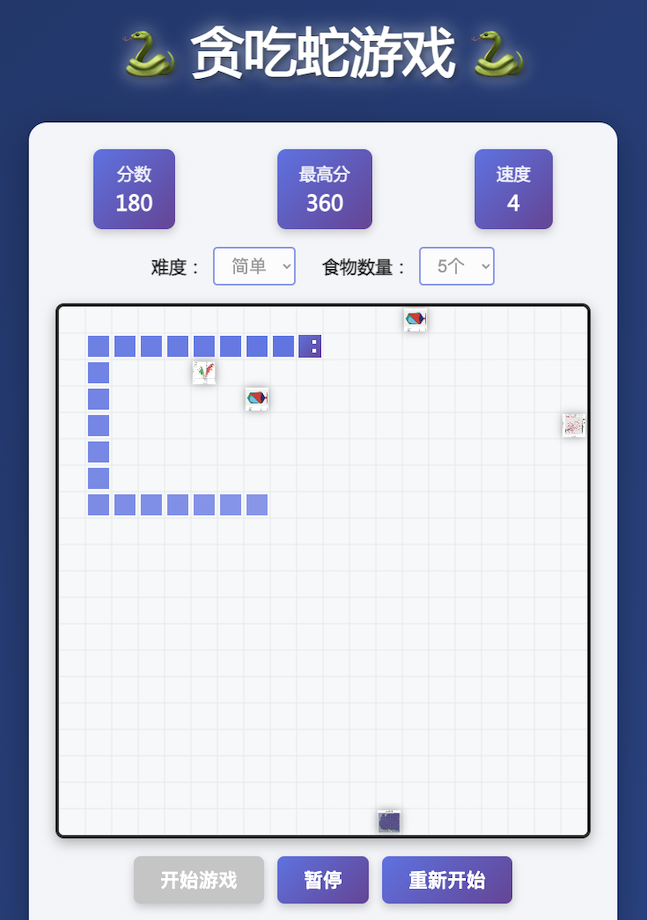
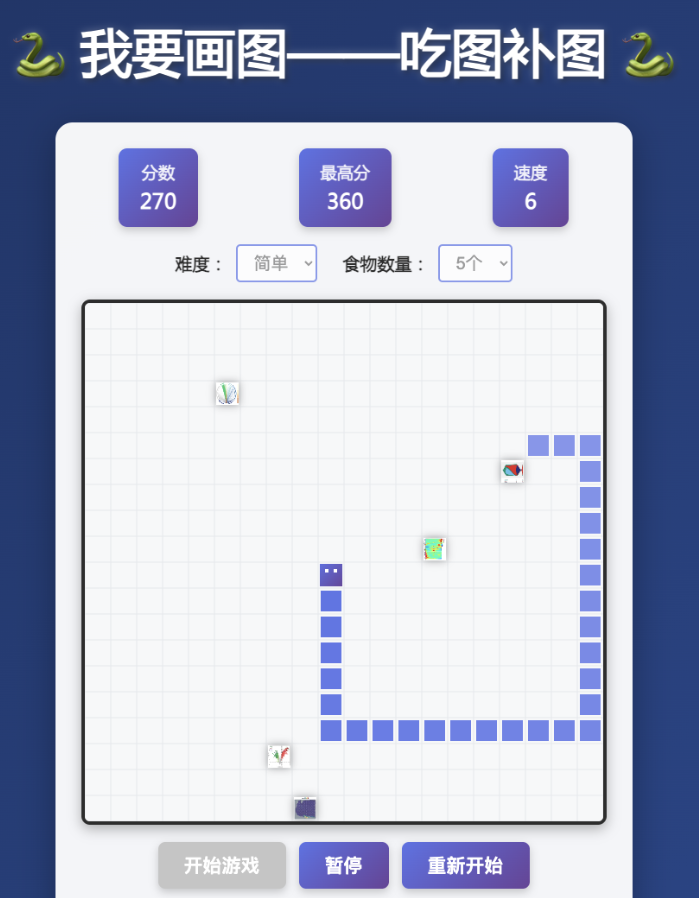
rename

diff --git a/index.html b/index.html
@@ -292,14 +292,14 @@
 
         <div class="games-grid">
             <div class="game-card" onclick="openGame('game_linkup')">
-                <img src="png_compressed/game_linkup.webp" alt="连连看游戏" class="game-image">
+                <img src="png_compressed/game_linkup.webp" alt="我要思路——连上就有消除游戏" class="game-image">
                 <div class="game-info">
                     <div class="tag-container">
                         <span class="tag">益智</span>
                         <span class="tag">视觉</span>
                         <span class="tag">休闲</span>
                     </div>
-                    <div class="game-title">连连看</div>
+                    <div class="game-title">我要思路——连上就有</div>
                     <div class="game-description">
                         用FigureYa缩略图做的消除类游戏连连看，通过连接相同的图案来消除它们，考验你的观察力和反应能力。
                     </div>
@@ -308,14 +308,14 @@
             </div>
 
             <div class="game-card" onclick="openGame('game_typing')">
-                <img src="png_compressed/game_typing.webp" alt="打字游戏" class="game-image">
+                <img src="png_compressed/game_typing.webp" alt="论文如泉涌" class="game-image">
                 <div class="game-info">
                     <div class="tag-container">
                         <span class="tag">教育</span>
                         <span class="tag">词汇</span>
                         <span class="tag">技能</span>
                     </div>
-                    <div class="game-title">打字游戏</div>
+                    <div class="game-title">论文如泉涌</div>
                     <div class="game-description">
                         FigureYa关键词打字游戏：大学基础词汇 + 研究生进阶词汇，提升打字速度，助力毕业论文写作！
                     </div>
@@ -324,14 +324,14 @@
             </div>
 
             <div class="game-card" onclick="openGame('game_snake')">
-                <img src="png_compressed/game_snake.webp" alt="贪吃蛇游戏" class="game-image">
+                <img src="png_compressed/game_snake.webp" alt="我要画图——吃图补图" class="game-image">
                 <div class="game-info">
                     <div class="tag-container">
                         <span class="tag">经典</span>
                         <span class="tag">策略</span>
                         <span class="tag">休闲</span>
                     </div>
-                    <div class="game-title">贪吃蛇</div>
+                    <div class="game-title">我要画图——吃图补图</div>
                     <div class="game-description">
                         经典贪吃蛇游戏，使用FigureYa图片作为食物素材。支持多种难度和食物数量设置，挑战你的反应速度和策略思维！
                     </div>

diff --git a/game_typing/index.html b/game_typing/index.html
@@ -3,12 +3,12 @@
 <head>
     <meta charset="UTF-8">
     <meta name="viewport" content="width=device-width, initial-scale=1.0, user-scalable=no">
-    <meta name="description" content="绿色终端打字游戏 - 90年代复古风格的打字练习游戏">
+    <meta name="description" content="论文如泉涌 - 90年代复古风格的打字练习游戏">
     <meta name="keywords" content="打字游戏,绿色终端,复古,typing,练习,中文打字,英文打字">
-    <title>绿色终端打字游戏</title>
+    <title>论文如泉涌</title>
 
     <!-- Open Graph / Social Media -->
-    <meta property="og:title" content="绿色终端打字游戏">
+    <meta property="og:title" content="论文如泉涌">
     <meta property="og:description" content="体验90年代绿色终端风格的打字练习游戏！">
     <meta property="og:type" content="website">
     <meta property="og:image" content="./assets/icon.png">
@@ -86,7 +86,7 @@
             margin: 20px;
             padding: 20px;
             flex: 1;
-            max-width: 1200px;
+            max-width: min(95vw, 1200px);
             width: calc(100% - 40px);
             position: relative;
         }
@@ -418,6 +418,7 @@
                 margin: 10px;
                 padding: 15px;
                 border-radius: 5px;
+                width: calc(100% - 20px);
             }
 
             .title {
@@ -451,6 +452,7 @@
             .terminal {
                 margin: 5px;
                 padding: 10px;
+                width: calc(100% - 10px);
             }
 
             .title {
@@ -944,7 +946,7 @@
 <body>
     <div class="terminal">
         <header class="header">
-            <h1 class="title">DOS时代打字</h1>
+            <h1 class="title">论文如泉涌</h1>
             <div class="subtitle">SYSTEM READY...</div>
         </header>
 
@@ -2150,11 +2152,11 @@
             }
 
             shareResults() {
-                const shareText = `我在绿色终端打字游戏中获得了 ${this.finalScore} 分！WPM: ${this.finalWpm}，准确率: ${this.finalAccuracy}%`;
+                const shareText = `我在论文如泉涌中获得了 ${this.finalScore} 分！WPM: ${this.finalWpm}，准确率: ${this.finalAccuracy}%`;
 
                 if (navigator.share) {
                     navigator.share({
-                        title: '绿色终端打字游戏',
+                        title: '论文如泉涌',
                         text: shareText,
                         url: window.location.href
                     }).catch(err => {

diff --git a/game_snake/index.html b/game_snake/index.html
@@ -3,8 +3,8 @@
 <head>
     <meta charset="UTF-8">
     <meta name="viewport" content="width=device-width, initial-scale=1.0">
-    <meta name="description" content="贪吃蛇游戏 - 经典小游戏">
-    <title>贪吃蛇游戏</title>
+    <meta name="description" content="我要画图——吃图补图 - 经典小游戏">
+    <title>我要画图——吃图补图</title>
     <style>
         * {
             margin: 0;
@@ -84,6 +84,8 @@
             background: #fff;
             display: block;
             margin: 0 auto 20px;
+            max-width: 100%;
+            height: auto;
         }
 
         .controls {
@@ -232,15 +234,15 @@
                 gap: 15px;
             }
             
-            #gameCanvas {
-                max-width: 100%;
+            .game-container {
+                padding: 15px;
             }
         }
     </style>
 </head>
 <body>
     <header>
-        <h1>🐍 贪吃蛇游戏 🐍</h1>
+        <h1>🐍 我要画图——吃图补图 🐍</h1>
     </header>
 
     <div class="game-container">
@@ -280,7 +282,7 @@
             </div>
         </div>
 
-        <canvas id="gameCanvas" width="600" height="600"></canvas>
+        <canvas id="gameCanvas"></canvas>
 
         <div class="controls">
             <button id="startBtn">开始游戏</button>
@@ -316,8 +318,30 @@
         
         // 游戏配置
         const CELL_SIZE = 30;
-        const GRID_WIDTH = canvas.width / CELL_SIZE;
-        const GRID_HEIGHT = canvas.height / CELL_SIZE;
+        let GRID_WIDTH = 20;
+        let GRID_HEIGHT = 20;
+        
+        // 初始化canvas尺寸
+        function resizeCanvas() {
+            const container = document.querySelector('.game-container');
+            const maxWidth = Math.min(window.innerWidth - 80, 600);
+            const maxHeight = Math.min(window.innerHeight - 400, 600);
+            const size = Math.min(maxWidth, maxHeight);
+            
+            GRID_WIDTH = Math.floor(size / CELL_SIZE);
+            GRID_HEIGHT = Math.floor(size / CELL_SIZE);
+            
+            canvas.width = GRID_WIDTH * CELL_SIZE;
+            canvas.height = GRID_HEIGHT * CELL_SIZE;
+        }
+        
+        resizeCanvas();
+        window.addEventListener('resize', () => {
+            if (!gameInterval) {
+                resizeCanvas();
+                draw();
+            }
+        });
         
         // 游戏状态
         let snake = [];

diff --git a/game_linkup/index.html b/game_linkup/index.html
@@ -3,8 +3,8 @@
 <head>
     <meta charset="UTF-8">
     <meta name="viewport" content="width=device-width, initial-scale=1.0">
-    <meta name="description" content="连连看消除游戏">
-    <title>连连看消除游戏</title>
+    <meta name="description" content="我要思路——连上就有">
+    <title>我要思路——连上就有</title>
     <style>
         * {
             margin: 0;
@@ -113,13 +113,14 @@
         .game-board {
             display: grid;
             gap: 6px;
-            max-width: 800px;
+            max-width: min(90vw, 800px);
             margin: 0 auto;
+            justify-content: center;
         }
 
         .tile {
-            width: 80px;
-            height: 80px;
+            width: clamp(50px, 8vw, 80px);
+            height: clamp(50px, 8vw, 80px);
             border: 2px solid #ddd;
             border-radius: 8px;
             cursor: pointer;
@@ -133,9 +134,8 @@
         }
 
         @media (max-width: 768px) {
-            .tile {
-                width: 60px;
-                height: 60px;
+            .game-board {
+                gap: 4px;
             }
         }
 
@@ -295,7 +295,7 @@
 </head>
 <body>
     <header>
-        <h1>🎮 连连看消除游戏</h1>
+        <h1>🎮 我要思路——连上就有</h1>
         <p>找出相同的图片，用最多3条直线连接它们！</p>
     </header>
 
@@ -998,7 +998,7 @@
                     return false;
                 }
 
-                // 实现真正的连连看规则：最多用3条直线（2个转折点）连接
+                // 实现真正的我要思路——连上就有规则：最多用3条直线（2个转折点）连接
                 const result = this.findPath(row1, col1, row2, col2);
 
                 return result;
